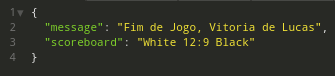
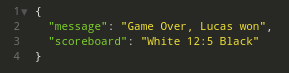
refatorado

diff --git a/src/controller/game.controller.js b/src/controller/game.controller.js
@@ -17,9 +17,9 @@ class GameController {
 
             var responseGame = await new Database('src/db/games.json').read(gameId)
 
-            if (responseGame[0].idPlayer2 === '') {
+            if (!responseGame[0].idPlayer2) {
 
-                if (!idPlayer2) { return res.status(400).send('Id Player2 Nao informado') }
+                if (!idPlayer2) { return res.status(400).send('Id Player2 is not in body') }
 
                 const responseUpdatePlayer2 = await new PlayerController().updateGame(gameId, idPlayer2)
 
@@ -38,41 +38,71 @@ class GameController {
                 responseMoves
             }
 
-            if (res) {
+            if (responseGame[0].points.w === 12) {
 
-                if (responseGame[0].points.w === 12) {
+                return res.status(200).send({
 
-                    return res.status(200).send({
+                    message: `Game Over, ${responseGame[0].idPlayer1} won`,
+                    scoreboard: `White ${responseGame[0].points.w}:${responseGame[0].points.b} Black`
 
-                        message: `Fim de Jogo, Vitoria de ${responseGame[0].idPlayer1}`,
-                        scoreboard: `White ${responseGame[0].points.w}:${responseGame[0].points.b} Black`
+                })
 
-                    })
+            } else if (responseGame[0].points.b === 12) {
 
-                } else if (responseGame[0].points.b === 12) {
+                return res.status(200).send({
 
-                    return res.status(200).send({
+                    message: `Game Over, ${responseGame[0].idPlayer2} won`,
+                    scoreboard: `White ${responseGame[0].points.w}:${responseGame[0].points.b} Black`
 
-                        message: `Fim de Jogo, Vitoria de ${responseGame[0].idPlayer2}`,
-                        scoreboard: `White ${responseGame[0].points.w}:${responseGame[0].points.b} Black`
+                })
 
-                    })
+            } else if (responseMoves.length === 0) {
 
-                } else if (responseMoves.length === 0) {
+                return res.status(200).send({ message: "Game Over, draw" })
 
-                    return res.status(200).send({ message: "Fim de Jogo" })
+            } else {
 
-                } else {
-
-                    return res.status(200).send(response)
-
-                }
+                return res.status(200).send(response)
 
             }
-            return response
 
         } else {
             return res.status(401).send('Unauthorized!')
+        }
+
+    }
+
+    async getGameToMove(item) {
+
+        const { gameId } = item.query
+        const { idPlayer2 } = item.body
+
+        if (gameId === item.player.gameId) {
+
+            var responseGame = await new Database('src/db/games.json').read(gameId)
+
+            if (responseGame==='Id not found') { return responseGame }
+
+            if (!responseGame[0].idPlayer2) {
+
+                await new PlayerController().updateGame(gameId, idPlayer2)
+
+                responseGame = await new Database('src/db/games.json').read(gameId)
+
+            }
+
+            const responsePieces = await new Database('src/db/pieces.json').read(gameId)
+
+            const responseMoves = new PossibleMovesController(responseGame[0].playerTurn, responsePieces[0].tab)
+
+            const response = {
+                responseGame,
+                responsePieces,
+                responseMoves
+            }
+
+            return response
+
         }
 
     }
@@ -129,6 +159,7 @@ class GameController {
                 token,
                 resPiecesPosition
             }
+            
 
             return res.status(201).send(response)
         } catch (error) {

diff --git a/src/controller/move.controller.js b/src/controller/move.controller.js
@@ -9,7 +9,11 @@ class MoveController {
 
         const { gameId } = req.params
 
-        var env = {
+        if(!req.body.idPlayer2) {
+            return req.status(400).send({error: 'Id Player2 is not in body'})
+        }
+
+        const MOCK_GETGAME = {
             query: {
                 gameId
             },
@@ -21,24 +25,25 @@ class MoveController {
             }
         };
 
-        const responseGame = await new GameController().getGame(env, null, null)
+        const responseGame = await new GameController().getGameToMove(MOCK_GETGAME)
+
+        if(responseGame==='Id not found') { return res.status(404).send({error: 'Game id is not found'})}
 
         var tab = responseGame.responsePieces[0].tab
         var points = responseGame.responseGame[0].points
+        var playerTurn = responseGame.responseGame[0].playerTurn
 
         var newPoints = {
             w: 0,
             b: 0
         }
 
-        var playerTurn = responseGame.responseGame[0].playerTurn
         var validMove
 
         const playerTurnPiece = tab[move[0]][move[1]]
 
         var movesFirstCap = []
         var movesSimple = []
-        var impossibleMove = false
         var finalMoves = []
 
         responseGame.responseMoves.map(e => {
@@ -47,15 +52,12 @@ class MoveController {
 
                 movesFirstCap.push(e)
 
-            } else if (e.length === 4) {
+            } else {
 
                 movesSimple.push(e)
 
-            } else {
-
-                impossibleMove = true
-            };
-        });
+            }
+        })
 
         if (movesFirstCap.length > 0) {
 
@@ -96,7 +98,7 @@ class MoveController {
             }
 
         } else {
-            return res.status(200).send({ message: "Fim de Jogo, Nenhum movimento eh possivel" })
+            return res.status(200).send({ message: "Game Over, draw" })
         }
 
         if (validMove.length > 0) {
@@ -113,7 +115,7 @@ class MoveController {
 
             await new Database('src/db/games.json').update(gameId, setGame)
 
-            const nextGame = await new GameController().getGame(env, null, null)
+            const nextGame = await new GameController().getGameToMove(MOCK_GETGAME)
 
             let nextMoves = nextGame.responseMoves
 
@@ -138,7 +140,9 @@ class MoveController {
 
             } else {
 
-                tab[move[4]][move[5]] = (move[4] === 0 && playerTurnPiece === 'w') || (move[4] === 7 && playerTurnPiece === 'b') ? `${playerTurnPiece}q` : playerTurnPiece
+                if(move[4]!==undefined) {
+                    tab[move[4]][move[5]] = (move[4] === 0 && playerTurnPiece === 'w') || (move[4] === 7 && playerTurnPiece === 'b') ? `${playerTurnPiece}q` : playerTurnPiece
+                }
 
                 const setTurn = {
                     playerTurn
@@ -152,7 +156,7 @@ class MoveController {
 
                 await new Database('src/db/pieces.json').update(gameId, setRealPiece)
 
-                nextMoves = await new GameController().getGame(env, null, null)
+                nextMoves = await new GameController().getGameToMove(MOCK_GETGAME)
 
                 const finalResponse = {
 

diff --git a/src/crud.js b/src/crud.js
@@ -15,6 +15,7 @@ class Database {
 
     async getData() {
         const archive = await readFileAsync(this.ARCHIVE_NAME, 'utf8')
+
         return JSON.parse(archive.toString())
     }
 
@@ -26,6 +27,9 @@ class Database {
     async read(id) {
         const data = await this.getData()
         const dataFilter = data.filter(item => id ? item.id===id : true)
+        if(dataFilter.length === 0) {
+            return 'Id not found'
+        }
         return dataFilter
     } 
 
@@ -65,7 +69,7 @@ class Database {
         const index = data.findIndex(item => item.id===id)
 
         if(index===-1) {
-            throw Error('Id n~ao cadastrado')
+            throw Error('Id not found')
         }
 
         const old = data[index]

diff --git a/src/controller/player.controller.js b/src/controller/player.controller.js
@@ -6,9 +6,9 @@ class PlayerController {
 
         const sets = {
             idPlayer2: idPlayer2
-        };
+        }
+
         const responseUpdate = await new Database('src/db/games.json').update(id, sets)
-        console.log(responseUpdate)
 
         return responseUpdate
 

diff --git a/src/controller/possible.moves.controller.js b/src/controller/possible.moves.controller.js
@@ -9,7 +9,7 @@ class PossibleMovesController {
 
         const newMoves = this.simpleMoves()
 
-        let newPositions = this.firstCaptureMove()
+        const newPositions = this.firstCaptureMove()
 
         if (newPositions.length > 0) {
 
